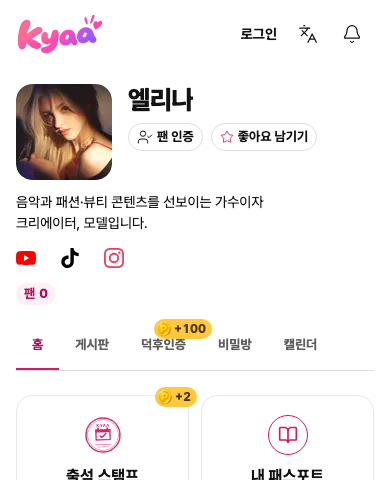
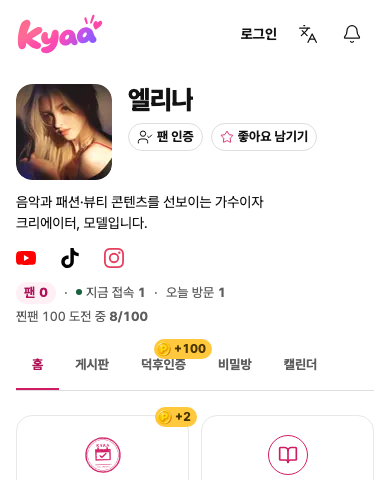
fix(fanpage): no divider before the loading bar in the fan line

diff --git a/apps/web/features/groups/ui/group-presence.tsx b/apps/web/features/groups/ui/group-presence.tsx
@@ -33,7 +33,7 @@ export function GroupPresence({pageId,locale,member=false,mode="compact",memberC
   :<span className={fanClass} data-fan-count=''>{metric('fanCount',memberCount)}</span>;
  if(!r.data)return <section className={styles.line} aria-label={t.groups} aria-busy={r.error?undefined:true}>{fans}{r.error
   ?<span className={styles.error} role='status'><span className={styles.errorText}>{presenceUnavailableCopy[locale]}</span><button type='button' className={styles.retry} onClick={r.retry}>{t.retry}</button></span>
-  :<><span className={styles.item}><FanSkeleton width={72} height={16}/></span><FanSkeletonStatus locale={locale}/></>}</section>;
+  :<><span className={styles.pending}><FanSkeleton width={72} height={16}/></span><FanSkeletonStatus locale={locale}/></>}</section>;
  const seen=r.data.artists.filter(artist=>artist.online||artist.visitedToday),live=seen.some(artist=>artist.online)?seen.filter(artist=>artist.online):seen,online=live.some(artist=>artist.online);
  // 아티스트 표시는 팬 수 바로 뒤에 둔다(390에서 줄 끝에 잘리지 않게). 지금 접속 중이면 핑크 알약 + 점이 세 번 퍼진다.
  return <section className={styles.line} aria-label={t.groups} data-wrap={challengeSlug?'':undefined}>{fans}

diff --git a/apps/web/features/groups/ui/group-presence.test.tsx b/apps/web/features/groups/ui/group-presence.test.tsx
@@ -79,6 +79,11 @@ it('does not present malformed API data or auth-pending values as real counts',a
  auth.ready=true;rpc.mockResolvedValue({onlineCount:-1,todayCount:12,artists:[]});view.rerender(<GroupPresence pageId={pageId} locale='ko'/>);await flush();expect(screen.getByRole('status')).toBeVisible();expect(screen.queryByText('-1')).toBeNull();
 });
 
+it('draws the loading bar without a divider so a lone middle dot never floats beside the fan count (대표 11/15 23:42)',async()=>{
+ resetAuthReadyDeadlineForTest();auth.ready=false;const {container}=render(<GroupPresence pageId={pageId} locale='ko' memberCount={1}/>);await flush();
+ const bar=container.querySelector('section [class*="pending"]') as HTMLElement;
+ expect(bar).not.toBeNull();expect(bar.className).not.toMatch(/item/);
+});
 it('retries a transient read once without a second heartbeat',async()=>{
  const handlerFetch=vi.mocked(fetch);let reads=0;const original=handlerFetch.getMockImplementation()!;
  handlerFetch.mockImplementation(async(url,init)=>{if(init?.method!=='PUT'&&reads++===0)return Response.json({error:{code:'TEMPORARY'}},{status:503});return original(url,init);});

diff --git a/apps/web/features/groups/ui/group-presence.module.css b/apps/web/features/groups/ui/group-presence.module.css
@@ -14,6 +14,8 @@
   white-space: nowrap;
 }
 .item { flex: none; font-variant-numeric: tabular-nums; }
+/* 값을 읽는 동안의 막대. 구분점 없이 팬 수 바로 옆에 둔다(점만 홀로 남지 않게). 값이 오면 그 자리가 '· 지금 접속 N'으로 바뀐다. */
+.pending { flex: none; margin-left: var(--space-3); }
 .onlineDot { display: inline-block; width: 6px; height: 6px; margin-right: var(--space-1); border-radius: 50%; background: var(--color-success); vertical-align: 2px; }
 .item + .item::before, .item + .artist::before, .artist + .item::before, .item + .error::before { content: "·"; margin: 0 var(--space-2); color: var(--color-muted); }
 .item:first-child { color: var(--color-ink); font-weight: var(--fan-item-title-weight); }
